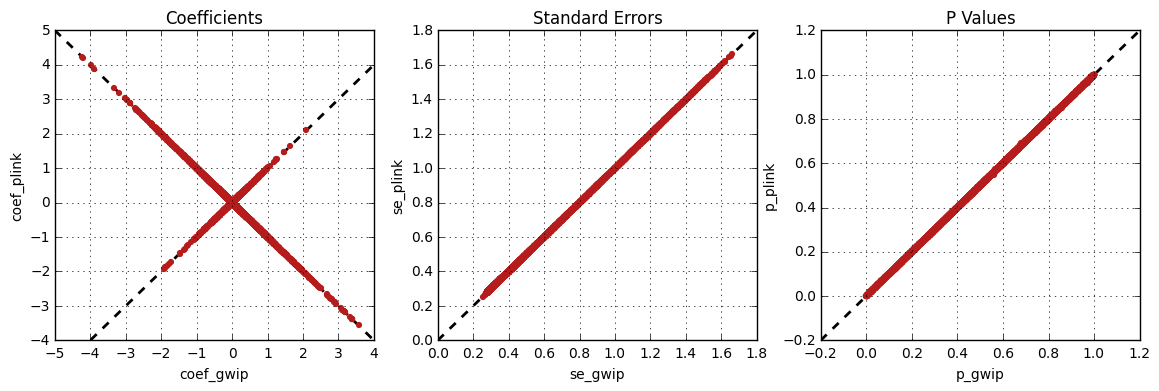
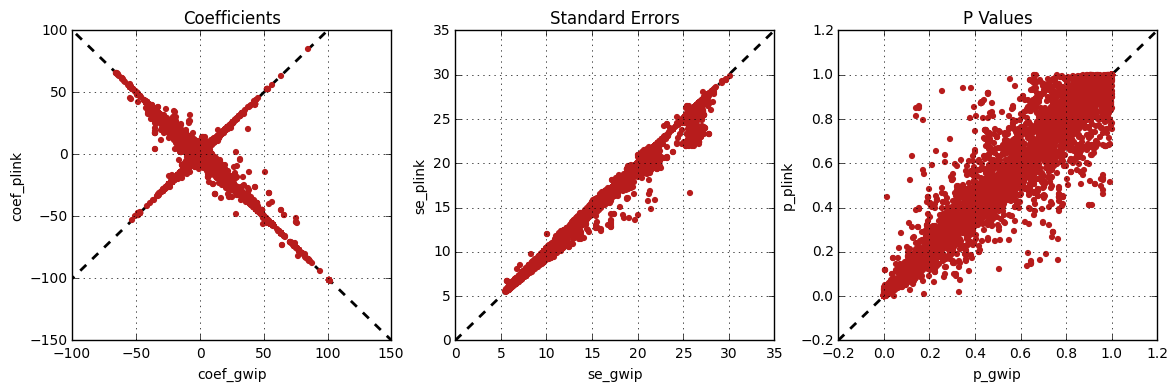
Linear tutorial now completed

diff --git a/docs/tutorials/tutorial_linear.rst b/docs/tutorials/tutorial_linear.rst
@@ -1,10 +1,6 @@
 Linear Tutorial
 ================
 
-.. note::
-
-   Work on this tutorial is still in progress...
-
 
 Quick navigation
 -----------------
@@ -115,7 +111,8 @@ The following is an example of a phenotype file:
    ...
 
 We provide a *dummy* phenotype file (where values, except for ``Gender``, were
-randomly generated). The following command should download the phenotype file.
+randomly generated for 60 founders of the dataset). The following command
+should download the phenotype file.
 
 .. code-block:: bash
 
@@ -165,7 +162,7 @@ the linear regression analysis.
        --pheno phenotypes_linear.txt \
        --extract-sites ../gwip/chr22/final_impute2/chr22.imputed.good_sites \
        --nb-process 8 \
-       --nb-lines 3000 \
+       --nb-lines 6000 \
        --gender-column Gender \
        --covar Age,Var1,Gender \
        --sample-column SampleID \
@@ -175,6 +172,14 @@ For more information about the arguments and options, see the
 :ref:`lin-tut-usage` section. The number of process to use might differ
 according to the installation type and to the computer/server. See the
 :ref:`lin-tut-execution-time` section for more information.
+
+.. note::
+
+   Analysis will be performed only on samples whitout missing data (phenotype,
+   gender, variables, etc).
+
+   By default, the analysis is performed by removing low quality genotypes
+   (using a probability threshold of 0.9, the ``--prob`` option).
 
 
 .. _lin-tut-output-files:
@@ -292,10 +297,9 @@ The following figure shows the approximate execution time for different number
 of processes (the ``--nb-process`` option) with different installation methods
 (*pyvenv* in blue, versus *miniconda* in orange). This analysis was performed
 on a computer with an *Intel(R) Core(TM) i7-3770 CPU @ 3.40GHz* (8 cores) and
-16Go of RAM. The analysis contained 30,000 imputed markers for 2,402 samples,
-and 6,000 lines were processed at a time. Each test was performed only one time
-(no repetition). The red line represent the execution time of the same analysis
-using *Plink* (which uses only one process).
+16Go of RAM. The analysis contained the 195,473 imputed markers and 90 samples
+from the previous command (where phenotypes were available for only 60 of the
+samples). Each test was performed only one time (no repetition).
 
 .. _linear_exec_time:
 
@@ -312,6 +316,28 @@ cores on the machine) and monitor the system load average. This is not true
 when using a *miniconda* installation, since all processes uses no more than
 100%.
 
+.. note::
+
+   Execution times between *Plink* and :py:mod:`gwip` were compared for this
+   analysis. When data processing is required prior to the statistical analysis
+   (*e.g.* removing poor quality genotypes and excluding the 60 samples without
+   phenotype), *Plink* was **significantly faster** than :py:mod:`gwip`, even
+   if the latter is using more than one processes. This is due to prior data
+   manipulation, which significantly increse computation time.
+
+   When no data processing is required (*i.e.* keeping bad quality genotypes
+   and keeping all samples), :py:mod:`gwip` was faster with two processes or
+   more (as in the figure below). Note that for this example (30,000 imputed
+   markers for 2,402 samples), all samples were used for the analysis because
+   they all had a phenotype.
+
+   .. _linear_exec_time_plink:
+
+   .. figure:: ../_static/images/Linear_Walltime_Plink.png
+       :align: center
+       :width: 60%
+       :alt: Linear regression execution time vs number of processes (Plink).
+
 
 .. _lin-tut-comparison:
 
@@ -322,15 +348,38 @@ The linear regression results from :py:mod:`gwip` and *Plink* were compared for
 validity. The following figure shows the comparison for, from left to right,
 the coefficients, the standard errors and the *p*-values. The *x* axis shows
 the results from :py:mod:`gwip`, and the *y* axis shows the results for
-*Plink*. The analysis contained 30,000 imputed markers for 2,402 samples.
+*Plink*. This comparison includes 163,670 "good" imputed markers, analyzed for
+60 samples (*i.e* results from this tutorial). Note that for this comparison,
+the **probability threshold** (``--prob``) **was changed from 0.9 to 0** to
+*imitate* *Plink* analysis (see note below for more information).
 
-.. figure:: ../_static/images/Linear_Diff.png
+.. figure:: ../_static/images/Linear_Diff_Prob0.png
    :align: center
    :width: 100%
-   :alt: Linear regression comparison between gwip and Plink
+   :alt: Linear regression comparison between gwip and Plink (probability of 0)
 
-The sign of the coefficients might be different when comparing :py:mod:`gwip`
-to *Plink*, since :py:mod:`gwip` computes the statistics on the rare allele,
-while *Plink* computes them on the second (alternative) allele. The alternative
-allele might not always be the rarest.
+.. note::
+
+   The sign of the coefficients might be different when comparing
+   :py:mod:`gwip` to *Plink*, since :py:mod:`gwip` computes the statistics on
+   the rare allele, while *Plink* computes them on the second (alternative)
+   allele. The alternative allele might not always be the rarest.
+
+.. note::
+
+   By default, :py:mod:`gwip` excludes samples with a maximum probability lower
+   than 0.9 (the ``--prob`` option), while *Plink* keeps all the samples for
+   the analysis. In order to get the same results as *Plink*, the analysis must
+   be done with a probability threshold of 0 (*i.e.* ``--prob 0``, keeping all
+   imputed genotypes including those with poor quality). This is what was done
+   for the previous figure.
+
+   The following figure shows the comparison between *Plink* and :py:mod:`gwip`
+   for the same analysis, but using the default probability threshold of 0.9
+   (excluding imputed genotypes with poor quality).
+
+   .. figure:: ../_static/images/Linear_Diff.png
+      :align: center
+      :width: 100%
+      :alt: Linear regression comparison between gwip and Plink
 
